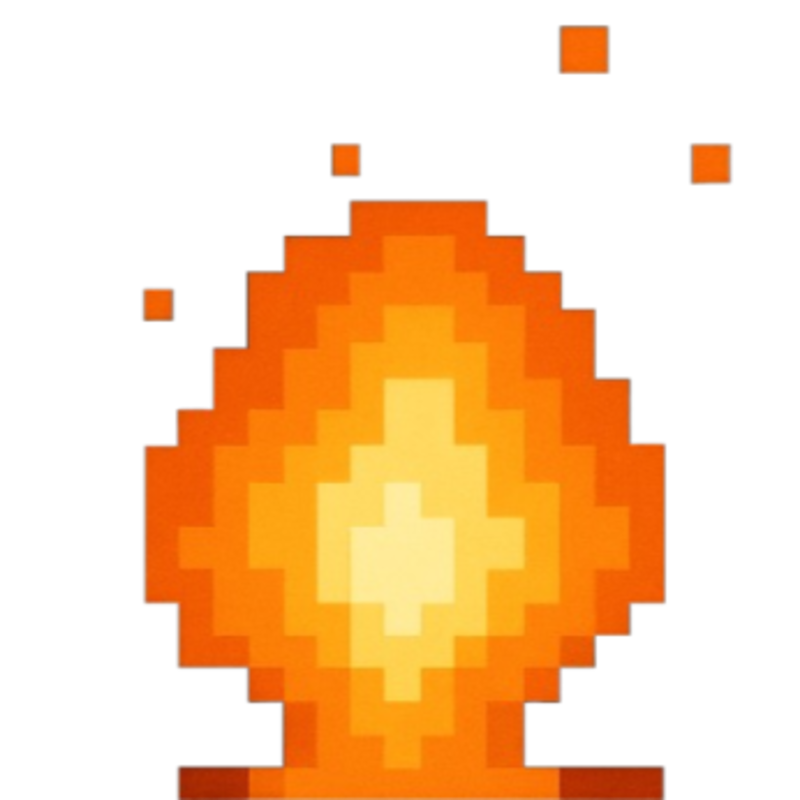
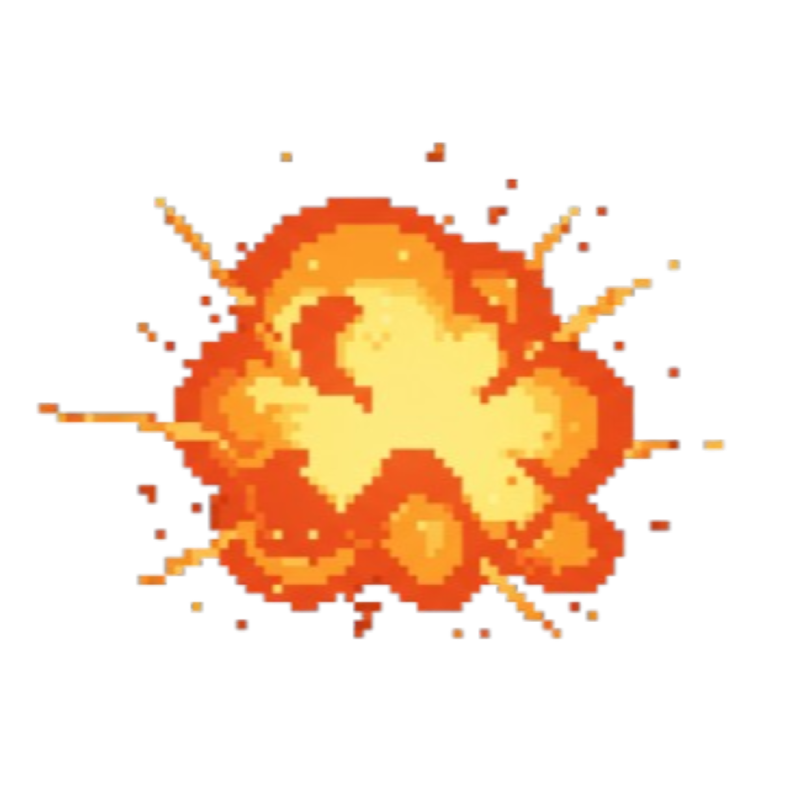
爆発のエフェクト変更

diff --git a/DxLib_TGS2025/Src/Object/car.cpp b/DxLib_TGS2025/Src/Object/car.cpp
@@ -167,8 +167,8 @@ void CarResourceInit(void)
 	car.boom_animtion[0] = LoadGraph("Resource/images/boom0.png");
 	car.boom_animtion[1] = LoadGraph("Resource/images/boom1.png");
 	car.boom_animtion[2] = LoadGraph("Resource/images/boom2.png");
-	car.boom_animtion[3] = LoadGraph("Resource/images/boom3.png");
-	car.boom_animtion[4] = LoadGraph("Resource/images/boom4.png");
+	//car.boom_animtion[3] = LoadGraph("Resource/images/boom3.png");
+	//car.boom_animtion[4] = LoadGraph("Resource/images/boom4.png");
 
 	car.warn_image[0] = LoadGraph("Resource/images/Warn_image2.png");
 	car.warn_image[1] = LoadGraph("Resource/images/Warn_image.png");
@@ -920,7 +920,7 @@ void CarWarnUpdate(const Goal*goal,const GameOver*gameover,const InGame*ingame)
 	 if (car.boom_flag == true)
 	 {
 		 car.boom_count++;
-		 if (car.boom_count > 30 && car.boom_count % 12 == 0 && car.boom_num < 5)
+		 if (car.boom_count > 30 && car.boom_count % 12 == 0 && car.boom_num < 3)
 		 {
 			 car.boom_num++;
 		 }
@@ -941,7 +941,7 @@ void CarWarnUpdate(const Goal*goal,const GameOver*gameover,const InGame*ingame)
 		 if (car.boom_count > 30)
 		 {
 
-			 DrawRotaGraphF(carx+20, cary-50, 0.2, 0.0, car.boom_animtion[car.boom_num], TRUE);
+			 DrawRotaGraphF(carx, cary, 0.3, 0.0, car.boom_animtion[car.boom_num], TRUE);
 
 			 /*if (car.boom_count < 60)
 			 {
